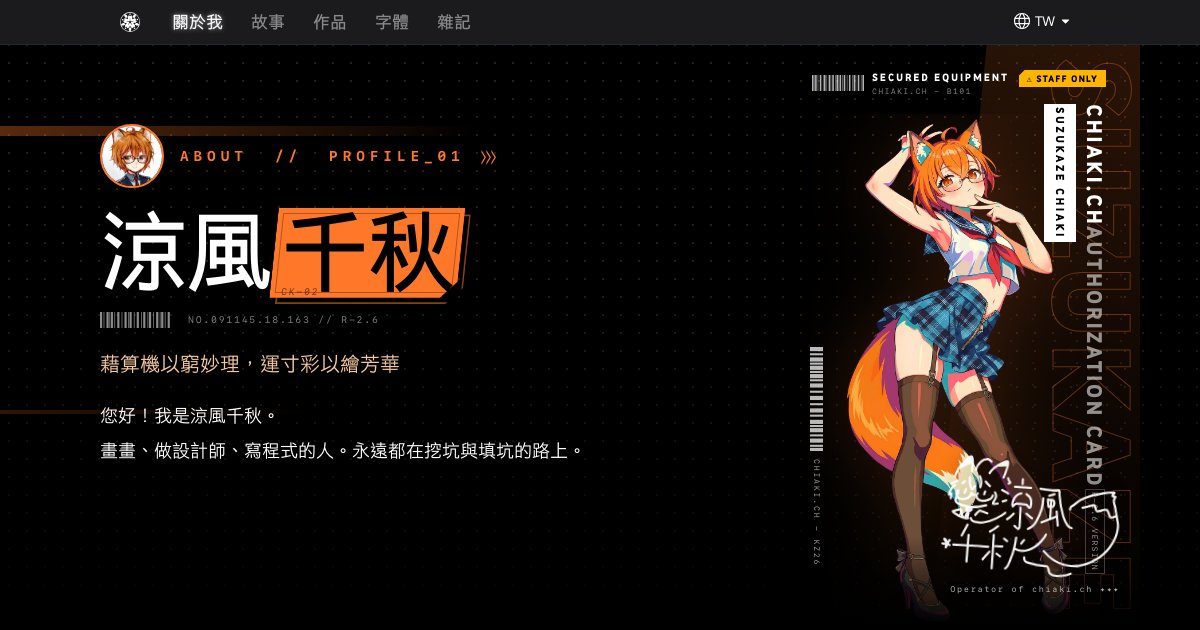
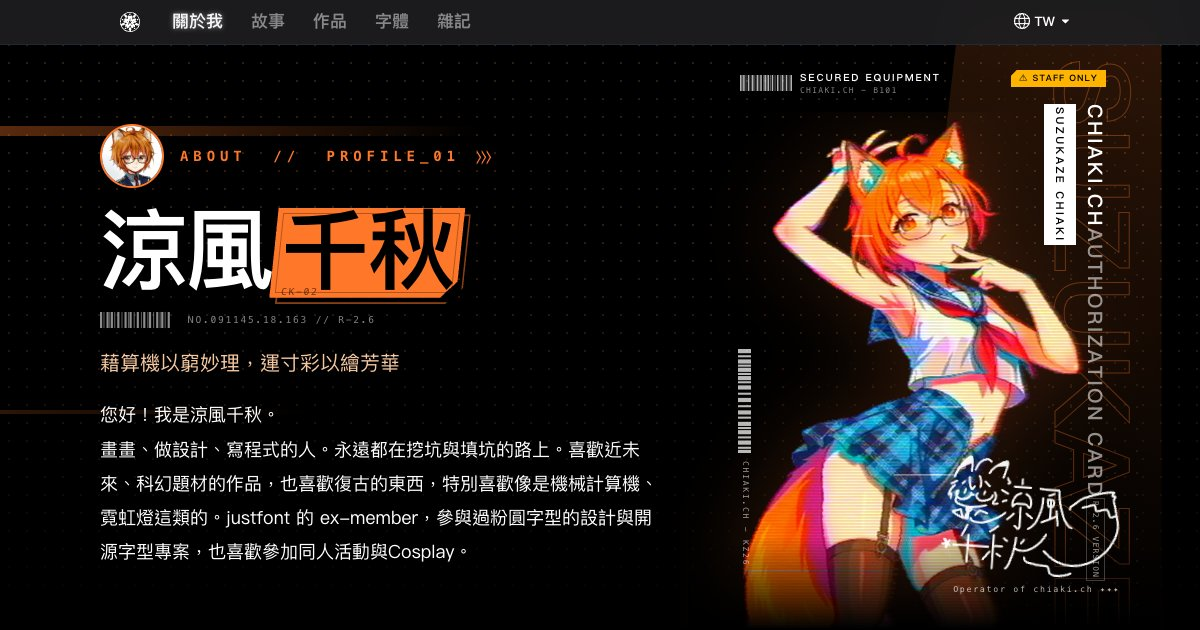
feat(profile): enhance character panel layout and responsiveness

diff --git a/components/effects/NtscImage.tsx b/components/effects/NtscImage.tsx
@@ -5,7 +5,7 @@
 // count is the tape's vertical resolution, so this is not a saving, it is the
 // look. The passes are ~50 taps a pixel, and at that price the difference
 // between 600 rows and a retina backing store is roughly eightfold.
-import { useEffect, useRef } from 'react'
+import { useEffect, useRef, useState } from 'react'
 import { styled } from 'styled-system/jsx'
 import { NtscPipeline } from 'lib/ntsc/pipeline'
 import { NTSC_FULL_FRAME, ntscSurfaceSize, type NtscParams } from 'lib/ntsc/params'
@@ -15,10 +15,11 @@ import { NTSC_FULL_FRAME, ntscSurfaceSize, type NtscParams } from 'lib/ntsc/para
 const FIT_VERTEX = `#version 300 es
 in vec2 a_position;
 uniform vec2 u_scale;
+uniform vec2 u_offset;
 out vec2 v_uv;
 
 void main() {
-  v_uv = (a_position * 0.5 + 0.5 - 0.5) / u_scale + 0.5;
+  v_uv = (a_position * 0.5 + 0.5 - 0.5) / u_scale + 0.5 + u_offset;
   gl_Position = vec4(a_position, 0.0, 1.0);
 }
 `
@@ -48,6 +49,8 @@ type NtscImageProps = {
   params?: NtscParams
   /** 'cover' crops to fill, 'contain' fits the whole image in. */
   fit?: 'cover' | 'contain'
+  /** When cover crops vertically, pin the image to its top edge. */
+  fitPosition?: 'center' | 'top'
   /** Fired once the source is on the GPU — there is no <img> to listen to. */
   onLoad?: () => void
   className?: string
@@ -67,22 +70,27 @@ const compile = (gl: WebGL2RenderingContext, type: number, source: string) => {
 }
 
 const Surface = styled.canvas
+const Frame = styled.div
+const Fallback = styled.img
 
 const NtscImage = ({
   src,
   alt = '',
   params = NTSC_FULL_FRAME,
   fit = 'cover',
+  fitPosition = 'center',
   onLoad,
   className,
 }: NtscImageProps) => {
   const canvasRef = useRef<HTMLCanvasElement>(null)
+  const [webglReady, setWebglReady] = useState(false)
   // Held in a ref so a caller passing an inline arrow does not tear the whole
   // context down and rebuild it on every render.
   const onLoadRef = useRef(onLoad)
   onLoadRef.current = onLoad
 
   useEffect(() => {
+    setWebglReady(false)
     const canvas = canvasRef.current
     if (!canvas) return undefined
 
@@ -110,6 +118,7 @@ const NtscImage = ({
     }
     const positionLocation = gl.getAttribLocation(program, 'a_position')
     const scaleLocation = gl.getUniformLocation(program, 'u_scale')
+    const offsetLocation = gl.getUniformLocation(program, 'u_offset')
     const imageLocation = gl.getUniformLocation(program, 'u_image')
 
     const quad = gl.createBuffer()
@@ -148,6 +157,7 @@ const NtscImage = ({
       // prettier-ignore
       gl.texImage2D(gl.TEXTURE_2D, 0, gl.RGBA, gl.RGBA, gl.UNSIGNED_BYTE, image)
       loaded = true
+      setWebglReady(true)
       schedule()
       onLoadRef.current?.()
     }
@@ -177,6 +187,9 @@ const NtscImage = ({
       const cover = fit === 'cover'
       const scaleX = wide === cover ? 1 : aspect / surfaceAspect
       const scaleY = wide === cover ? surfaceAspect / aspect : 1
+      // The flipped texture's top edge is at the high end of the UV axis. Pin
+      // there for a portrait crop so the face remains visible on wide screens.
+      const offsetY = fitPosition === 'top' && scaleY > 1 ? (1 - 1 / scaleY) / 2 : 0
 
       pipeline.bind()
       gl.disable(gl.DEPTH_TEST)
@@ -188,6 +201,7 @@ const NtscImage = ({
       gl.enableVertexAttribArray(positionLocation)
       gl.vertexAttribPointer(positionLocation, 2, gl.FLOAT, false, 0, 0)
       gl.uniform2f(scaleLocation, scaleX, scaleY)
+      gl.uniform2f(offsetLocation, 0, offsetY)
       gl.activeTexture(gl.TEXTURE0)
       gl.bindTexture(gl.TEXTURE_2D, texture)
       gl.uniform1i(imageLocation, 0)
@@ -226,20 +240,37 @@ const NtscImage = ({
       // StrictMode's mount/unmount/mount, or any remount that reuses the node,
       // the second pass would draw into nothing and the canvas would stay blank.
     }
-  }, [fit, params, src])
+  }, [fit, fitPosition, params, src])
 
   return (
-    <Surface
-      ref={canvasRef}
-      className={className}
-      width="100%"
-      height="100%"
-      display="block"
-      role={alt ? 'img' : 'presentation'}
-      aria-label={alt || undefined}
-    />
+    <Frame position="relative" width="100%" height="100%">
+      {!webglReady && (
+        <Fallback
+          src={src}
+          alt={alt}
+          position="absolute"
+          inset="0"
+          width="100%"
+          height="100%"
+          display="block"
+          objectFit={fit}
+          objectPosition={fitPosition === 'top' ? 'top' : 'center'}
+          onLoad={() => onLoadRef.current?.()}
+        />
+      )}
+      <Surface
+        ref={canvasRef}
+        className={className}
+        width="100%"
+        height="100%"
+        display="block"
+        position="relative"
+        opacity={webglReady ? 1 : 0}
+        role={alt ? 'img' : 'presentation'}
+        aria-label={alt || undefined}
+      />
+    </Frame>
   )
 }
 
 export default NtscImage
-

diff --git a/components/profile/CharacterPanel.tsx b/components/profile/CharacterPanel.tsx
@@ -38,6 +38,30 @@ const PORTRAIT_GAIN = 1.1
 // faint; this is the knob for the whole layer.
 const GRILLE_STRENGTH = 1
 
+const ART_ASPECT = 1012 / 1800
+// The sticky header the panel sits under, and how much of the panel's height
+// the figure takes, so the feet clear the gradient at the bottom.
+const HEADER_HEIGHT = 44
+const PANEL_FILL = 0.88
+
+// The width the figure needs for the whole body to show, at a given viewport
+// height and as a live CSS length.
+const fullBodyWidthAt = (viewportHeight: number) =>
+  ART_ASPECT * PANEL_FILL * (viewportHeight - HEADER_HEIGHT)
+const FULL_BODY_WIDTH = `calc(${(100 * PANEL_FILL * ART_ASPECT).toFixed(2)}vh - ${(
+  HEADER_HEIGHT * PANEL_FILL * ART_ASPECT
+).toFixed(2)}px)`
+
+// The viewport height the size freezes at. Any shorter and a full body would be
+// too narrow to read, so the figure holds the size it had here and crops.
+const HOLD_SIZE_BELOW = 1000
+const MIN_FIGURE_WIDTH = `${fullBodyWidthAt(HOLD_SIZE_BELOW).toFixed(0)}px`
+
+const FIGURE_WIDTH = `max(${MIN_FIGURE_WIDTH}, ${FULL_BODY_WIDTH})`
+// How far the figure hangs past each edge of the column, floored at zero so the
+// bottom gradient never comes in narrower than the panel itself.
+const FIGURE_OVERHANG = `min(0px, calc(50% - ${FIGURE_WIDTH} / 2))`
+
 // Sticky character visual styled as an acrylic authorization pass
 const CharacterPanel = ({
   x,
@@ -88,8 +112,11 @@ const CharacterPanel = ({
     <Box
       position="relative"
       width="100%"
-      height={{ base: '68vh', lg: 'calc(100vh - 44px)' }}
-      overflow="hidden"
+      height={{ base: '68vh', lg: `calc(100vh - ${HEADER_HEIGHT}px)` }}
+      // The page root clips at the viewport edge. Keep this panel open so the
+      // character may overhang the narrower grid column without causing a
+      // horizontal scrollbar.
+      overflow="visible"
     >
       {/* Slanted accent panel */}
       <MotionBox
@@ -244,10 +271,15 @@ const CharacterPanel = ({
         position="absolute"
         bottom="0"
         left="50%"
-        height={{ base: '64vh', lg: '88%' }}
+        // Height drives the size, and the figure is free to overhang the column
+        // to keep the whole body in frame. Once the viewport is short enough
+        // that the full body would come in under the floor, the width holds
+        // there and the cover fit crops from the feet up, leaving the upper
+        // body at a readable size instead of a shrinking full figure.
+        width={{ base: 'auto', lg: FIGURE_WIDTH }}
+        height={{ base: '64vh', lg: `${PANEL_FILL * 100}%` }}
         aspectRatio="1012 / 1800"
-        maxWidth="none"
-        zIndex={1}
+        zIndex={{ base: 1, lg: 0 }}
         filter="brightness(var(--portrait-gain)) drop-shadow(0 0 40px #ff782930)"
         initial={{
           clipPath: 'polygon(0 0, 18% 0, 0 100%, 0 100%)',
@@ -282,7 +314,8 @@ const CharacterPanel = ({
             src={PORTRAIT_ART}
             alt={t('profilePage.characterPanel.alt')}
             params={PORTRAIT_TAPE}
-            fit="contain"
+            fit="cover"
+            fitPosition="top"
             onLoad={() => setImageLoaded(true)}
           />
 
@@ -296,9 +329,9 @@ const CharacterPanel = ({
             aria-hidden
             overflow="hidden"
             maskImage={PORTRAIT_MASK}
-            maskSize="contain"
+            maskSize="cover"
             maskRepeat="no-repeat"
-            maskPosition="center"
+            maskPosition="top"
           >
             {/* Soft-edged rather than a 1px band of solid colour. A hard edge
                 here was the most acute thing on screen — sharper than anything
@@ -388,12 +421,12 @@ const CharacterPanel = ({
         </Text>
       </Box>
 
-      {/* Blend the feet into the page bottom */}
+      {/* Blend the feet into the page bottom, out to wherever the figure ends */}
       <Box
         position="absolute"
         bottom="0"
-        left="0"
-        right="0"
+        left={{ base: '0', lg: FIGURE_OVERHANG }}
+        right={{ base: '0', lg: FIGURE_OVERHANG }}
         height={{ base: '18%', lg: '16%' }}
         background="linear-gradient(transparent, black)"
         display='block'

diff --git a/scripts/generateOgImages.js b/scripts/generateOgImages.js
@@ -23,6 +23,7 @@ const chromePath =
 const sitePort = 4173
 const debugPort = 9222
 const captureDelay = Number(process.env.OG_CAPTURE_DELAY || 6000)
+const routes = process.env.OG_ROUTES?.split(',').filter(Boolean)
 
 const pages = [
   ['/', 'home'],
@@ -55,6 +56,8 @@ if (existsSync(blogDir)) {
     pages.push([`/blog/${slug}`, `blog-${slug}`])
   }
 }
+
+const capturesProfile = !routes || routes.includes('/profile')
 
 if (!existsSync(outputDir)) throw new Error('找不到 out 目錄。請先執行 next build。')
 if (!existsSync(chromePath)) throw new Error(`找不到 Chrome：${chromePath}`)
@@ -211,7 +214,9 @@ const capture = async () => {
     chromePath,
     [
       '--headless=new',
-      '--disable-gpu',
+      ...(capturesProfile
+        ? ['--enable-webgl', '--use-angle=swiftshader', '--enable-unsafe-swiftshader']
+        : ['--disable-gpu']),
       '--disable-background-networking',
       '--disable-component-update',
       '--disable-sync',
@@ -239,6 +244,7 @@ const capture = async () => {
     })
 
     for (const [route, filename] of pages) {
+      if (routes && !routes.includes(route)) continue
       await browser.send('Page.navigate', {
         url: `http://127.0.0.1:${sitePort}${route}`,
       })

diff --git a/pages/profile.tsx b/pages/profile.tsx
@@ -159,7 +159,7 @@ const Profile: NextPage = () => {
       <Grid
         gridTemplateColumns={{
           base: '1fr',
-          lg: 'minmax(0, 1fr) clamp(320px, 30vw, 400px)',
+          lg: 'minmax(0, 3fr) minmax(0, 2fr)',
         }}
         gap={0}
         pt="44px"
@@ -176,6 +176,9 @@ const Profile: NextPage = () => {
         {/* Content column */}
         <Box
           order={{ base: 1, lg: 0 }}
+          // Above the character, which overhangs into this column.
+          position="relative"
+          zIndex={1}
           px={{ base: '24px', md: '40px' }}
           pt={{ base: 0, lg: 20 }}
           pb="80px"
@@ -293,7 +296,7 @@ const Profile: NextPage = () => {
             >
               {t('profilePage.header.tagline')}
             </Text>
-            <Text fontSize={{ base: 'md', md: 'lg' }} lineHeight="1.9" maxW="520px">
+            <Text fontSize={{ base: 'md', md: 'lg' }} lineHeight="1.9">
               {t('profilePage.header.introLine1')}
               <br />
               {t('profilePage.header.introLine2')}
